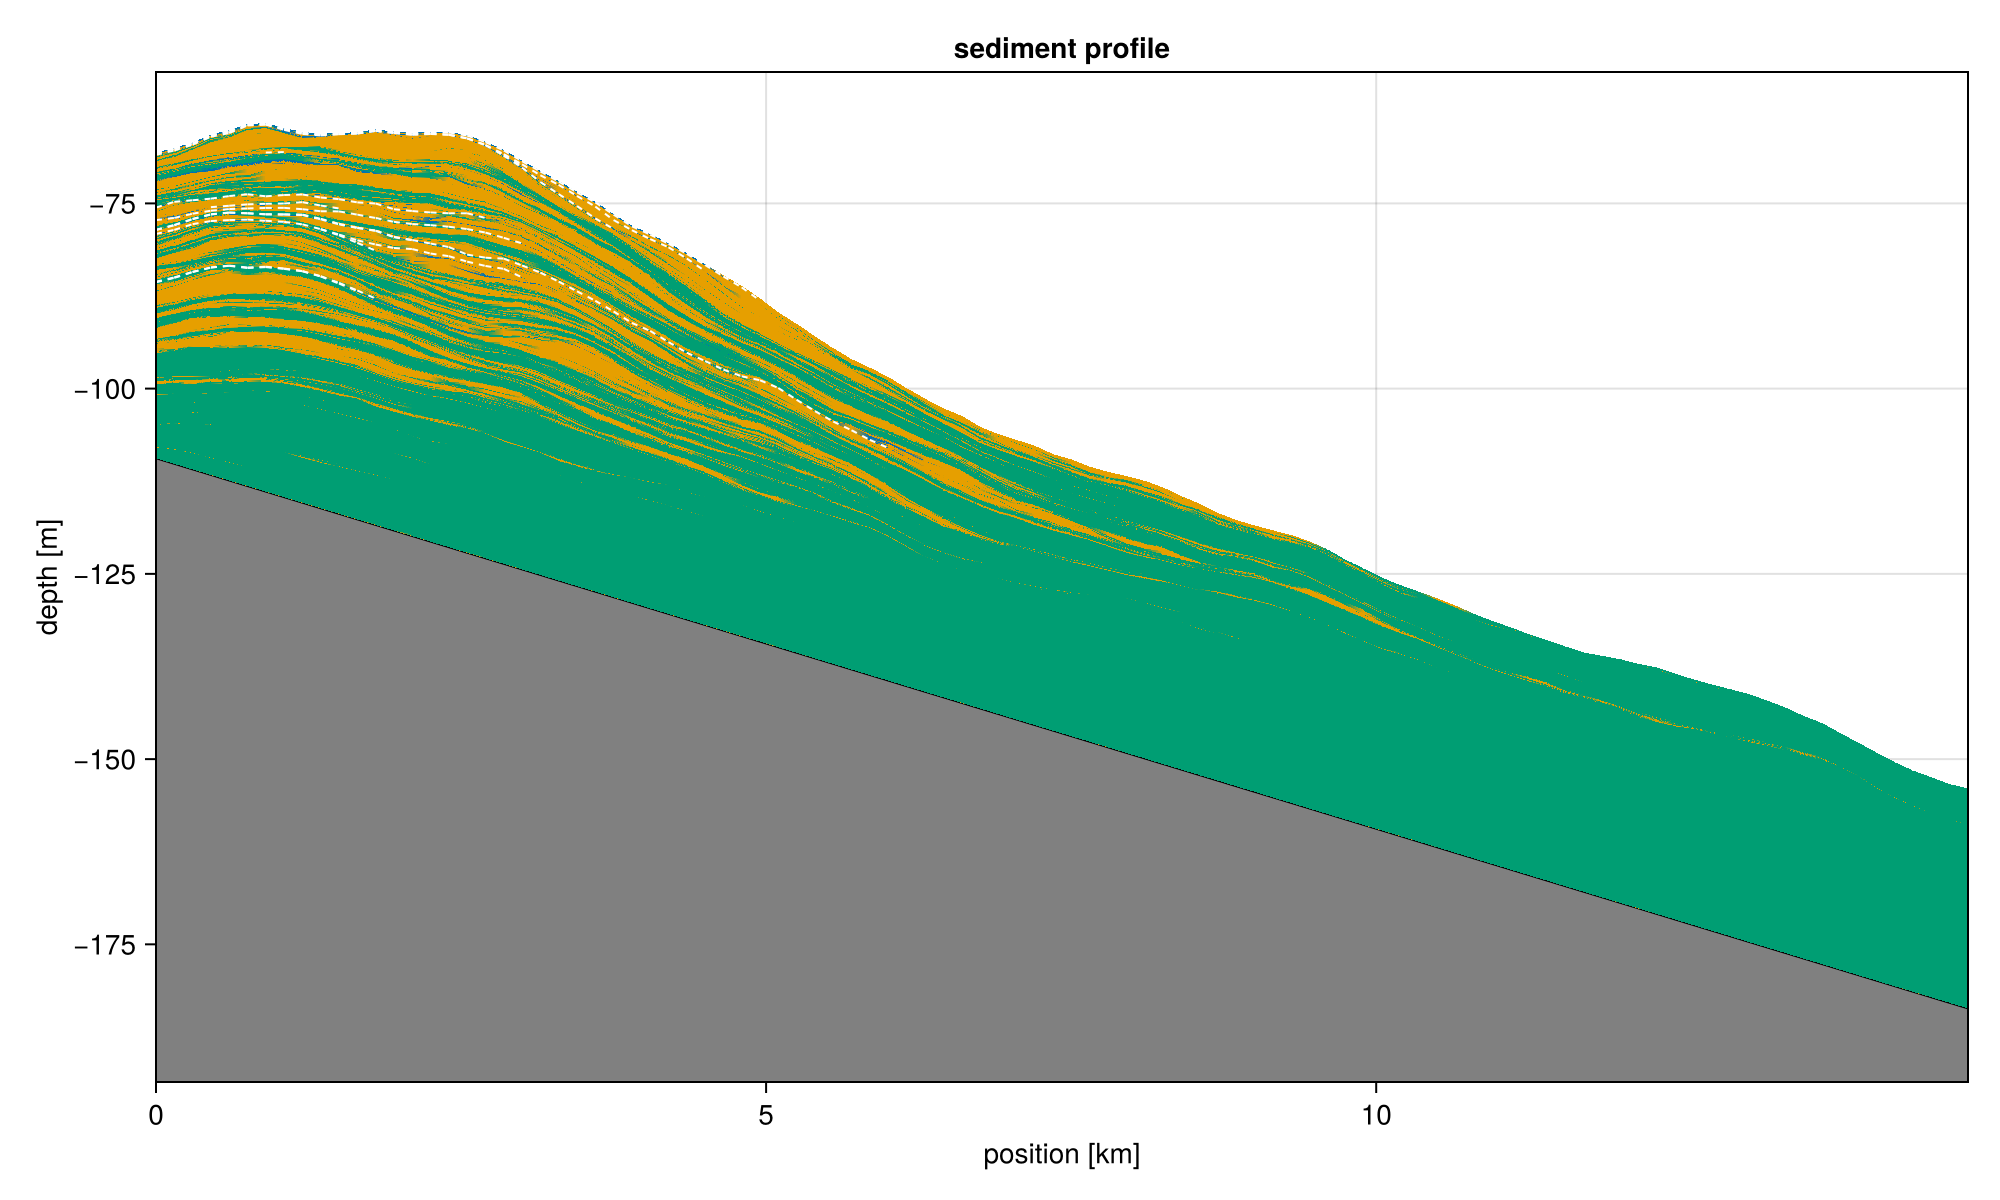
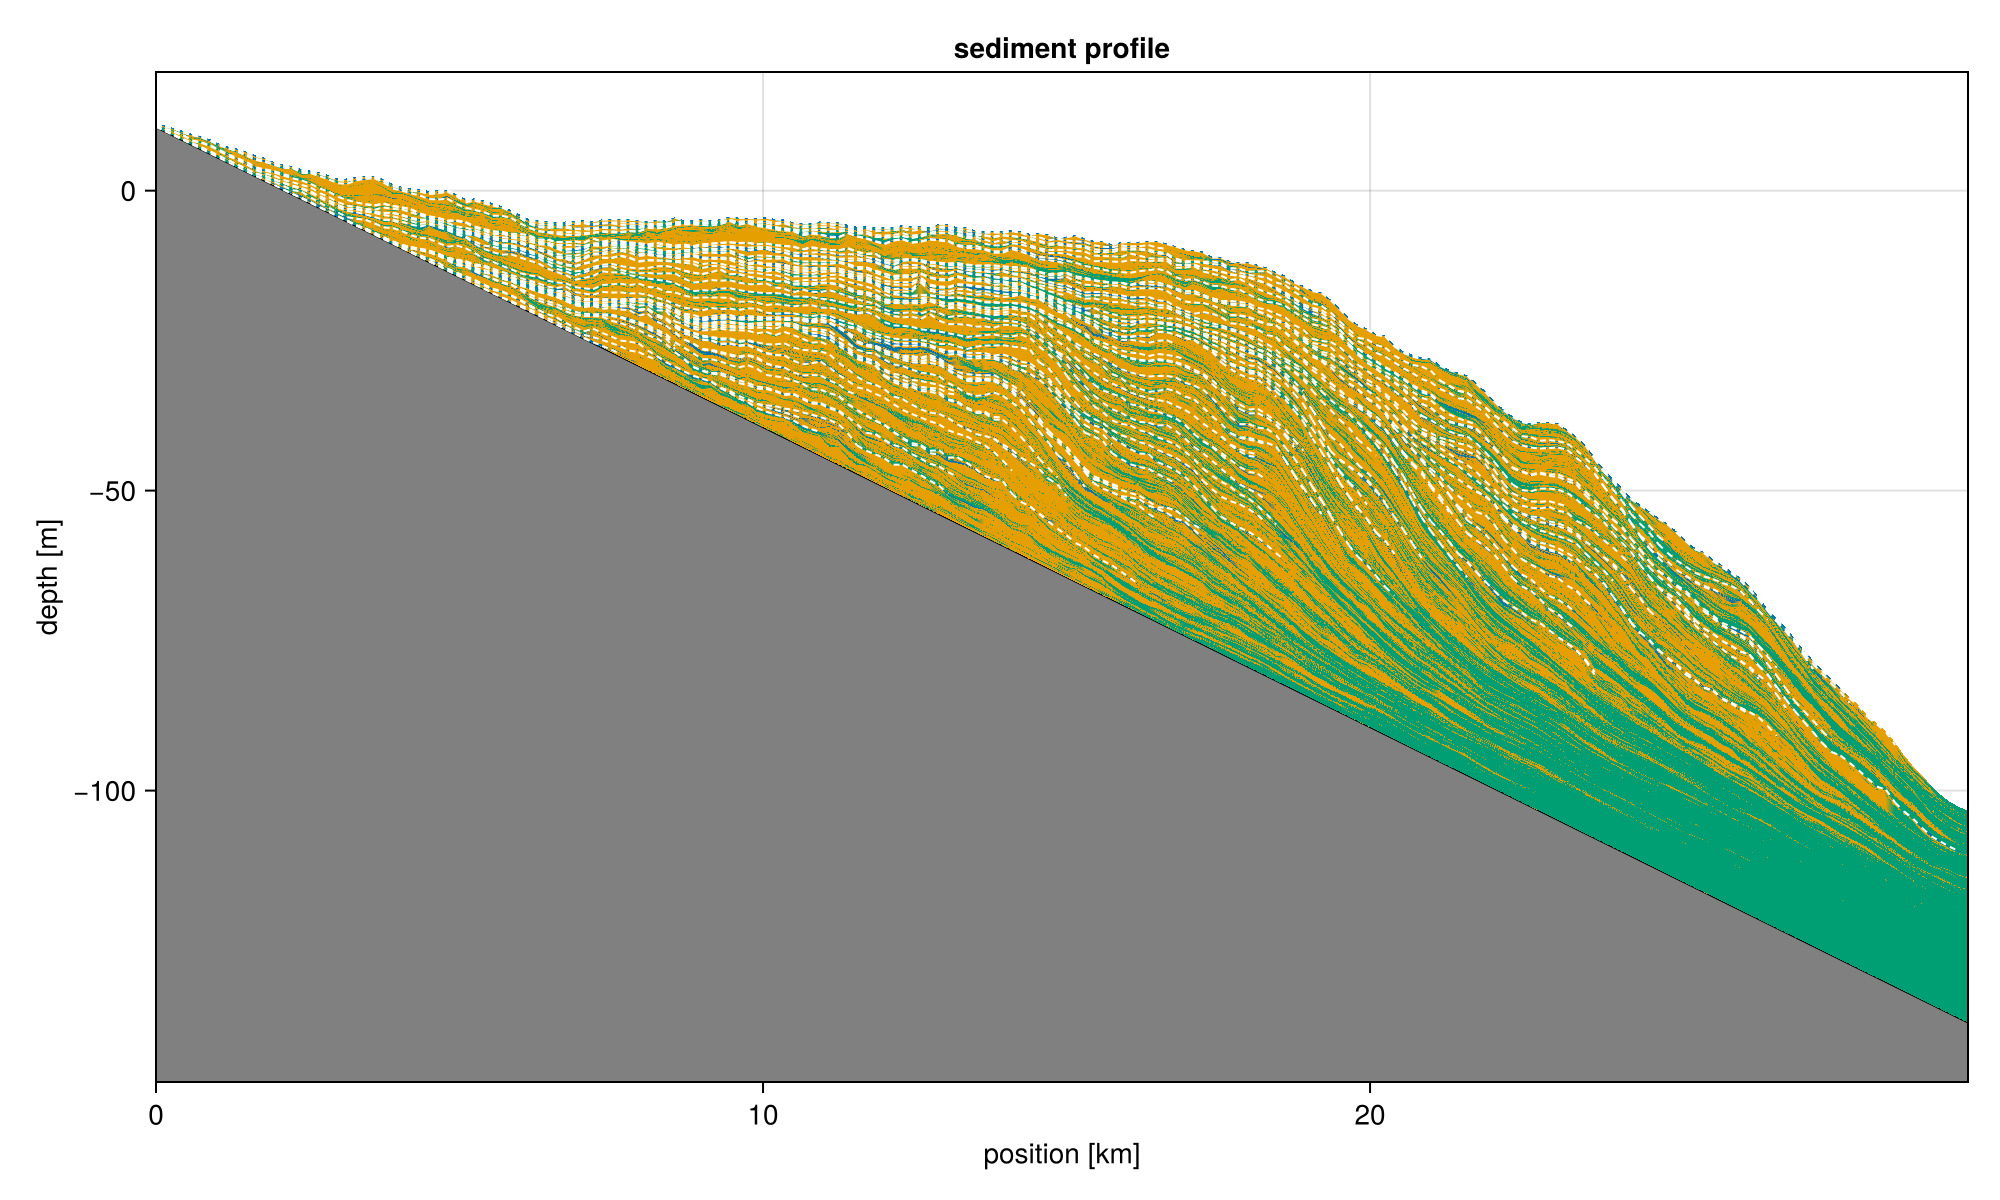
change parameters of liseki sea level run to show a nicer platform

diff --git a/md/paper.md b/md/paper.md
@@ -325,9 +325,9 @@ Advancing the CA can be configured to happen one-in-$n$ iterations to slow it do
 
 ### Sea level 
 
-Variables external to the production, which modulate it the most, are the sea level and insolation. The sea level, together with subsidence, result in the *relative* sea level, which translates into *water depth* at any given position in the basin. The sea level must be specified as a function of time. It can be a constant, a continuous function or an empirical dataset. Empirical datasets can be read in as text files and need to be interpolated to equidistant intervals corresponding to the time step, with which the model is run. 
+Variables external to the production, which modulate it the most, are the sea level and insolation. The sea level, together with subsidence, result in the *relative* sea level, which translates into *water depth* at any given position in the basin. The sea level must be specified as a function of time. It can be a constant, a continuous function or an empirical dataset. Empirical datasets can be read in as text files and need to be interpolated to equidistant intervals corresponding to the time step with which the model is run. 
 
-The example here uses the sea level curve by @lisiecki_pliocene-pleistocene_2005, reproduced in the compilation by @miller_phanerozoic_2005. The dataset of relative sea level records derived from foraminifer $\delta^{18}O$ extracted from this compilation is included in CarboKitten to facilitate simulations of the most typical sea-level scenarios. In this example we start the model 2 Ma and build the platform until $134.54\ \unit{ka}$, i.e. until the end of the record by @lisiecki_pliocene-pleistocene_2005, using a time step of 200 y.
+The example here uses the sea level curve by @lisiecki_pliocene-pleistocene_2005, reproduced in the compilation by @miller_phanerozoic_2005. The dataset of relative sea level records derived from foraminifer $\delta^{18}O$ extracted from this compilation is included in CarboKitten to facilitate simulations of the most typical sea-level scenarios. In this example we start the model at $2\ \unit{Ma}$ and build the platform until $134.54\ \unit{ka}$, i.e. until the end of the record by @lisiecki_pliocene-pleistocene_2005, using a time step of 200 y.
 
 ::: hide
 ```julia
@@ -345,6 +345,7 @@ using CategoricalArrays
 using CarboKitten.DataSets: artifact_dir
 using CairoMakie
 using CarboKitten.Visualization: sediment_profile
+using CarboKitten.Export: read_slice
 
 function miller_2020()
     dir = artifact_dir()
@@ -371,8 +372,8 @@ end
 
 const TIME_PROPERTIES = TimeProperties(
     t0 = -1999.7u"kyr",
-    Δt = 200.0u"yr",
-    steps = 9325
+    Δt = 100.0u"yr",
+    steps = 18650
 )
 
 const TAG = "lisiecki-sea-level"
@@ -384,29 +385,29 @@ const FACIES = [
         maximum_growth_rate=200u"m/Myr",
         extinction_coefficient=0.8u"m^-1",
         saturation_intensity=60u"W/m^2",
-        diffusion_coefficient=50.0u"m/yr"),
+        diffusion_coefficient=20.0u"m/yr"),
     ALCAP.Facies(
         viability_range=(4, 10),
         activation_range=(6, 10),
         maximum_growth_rate=500u"m/Myr",
         extinction_coefficient=0.1u"m^-1",
         saturation_intensity=60u"W/m^2",
-        diffusion_coefficient=25.0u"m/yr"),
+        diffusion_coefficient=10.0u"m/yr"),
     ALCAP.Facies(
         viability_range=(4, 10),
         activation_range=(6, 10),
         maximum_growth_rate=100u"m/Myr",
         extinction_coefficient=0.005u"m^-1",
         saturation_intensity=60u"W/m^2",
-        diffusion_coefficient=12.5u"m/yr")
+        diffusion_coefficient=50.0u"m/yr")
 ]
 
 const INPUT = ALCAP.Input(
     tag="$TAG",
-    box=CarboKitten.Box{Coast}(grid_size=(100, 50), phys_scale=150.0u"m"),
+    box=CarboKitten.Box{Coast}(grid_size=(200, 50), phys_scale=150.0u"m"),
     time=TIME_PROPERTIES,
     ca_interval=1,
-    initial_topography=(x, y) -> -x / 200.0 - 100.0u"m",
+    initial_topography=(x, y) -> -x / 200.0 + 20.0u"m",
     sea_level=sea_level(),
     output=Dict(
         :profile => OutputSpec(slice = (:, 25), write_interval = 1)),
@@ -418,11 +419,13 @@ const INPUT = ALCAP.Input(
     facies=FACIES)
 
 function main()
-    run_model(Model{ALCAP}, INPUT, MemoryOutput(INPUT))
+    CarboKitten.init()
+    run_model(Model{ALCAP}, INPUT, "data/variable-sl.h5")
 end
 
-function plot(result::MemoryOutput)
-    fig = sediment_profile(result.header, result.data_slices[:profile])
+function plot(result)
+    h, d = read_slice(result, :profile)
+    fig = sediment_profile(h, d)
     save("md/fig/variable-sl.png", fig)
 end
 
